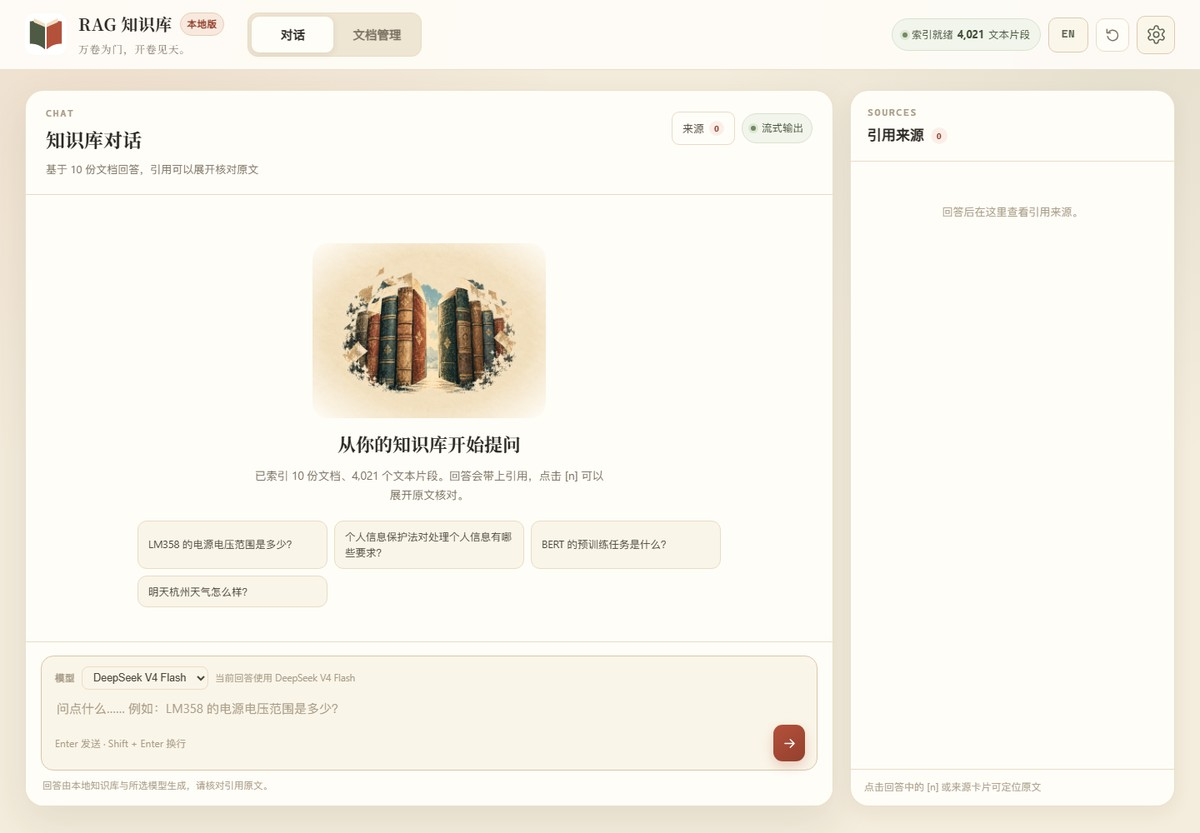
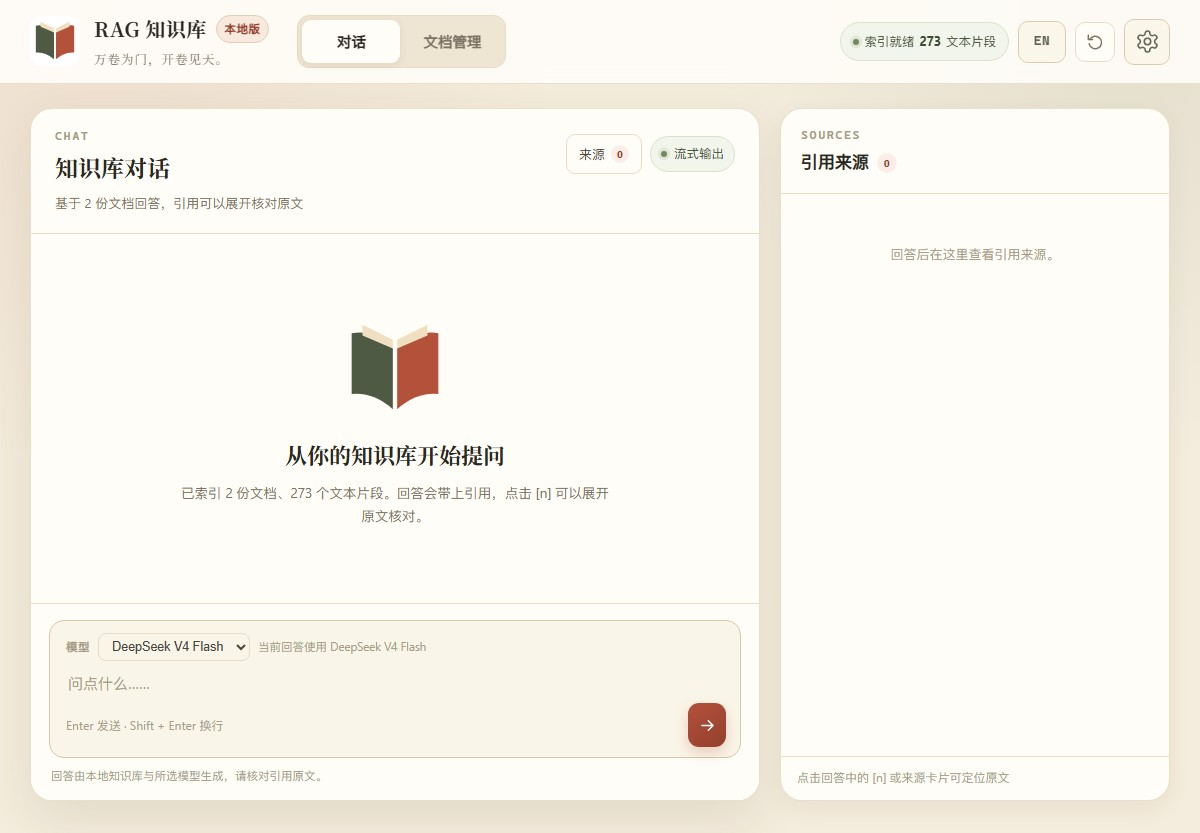
docs: 更新首次引导截图与 V1-020 记录

Changed region(s): [[0.0, 0.0, 1.0, 0.9676], [0.1542, 0.2809, 0.555, 0.6867], [0.74, 0.2497, 0.8942, 0.3121]]

diff --git a/docs/V1问题与优化收集.md b/docs/V1问题与优化收集.md
@@ -75,6 +75,7 @@
 | V1-017 | 分块与 chunk 上下文偏弱 | 优化 | P2 | V2候选 |
 | V1-018 | 大规模索引与向量库演进未规划 | 架构 / 性能 | P2 | V2候选 |
 | V1-019 | 评估集只覆盖 20 题检索 | 工程规范 | P1 | V2候选 |
+| V1-020 | 首次引导的 Provider / Key 交互反直觉 | 体验 | P2 | 已修复 |
 
 ---
 
@@ -326,6 +327,19 @@
 - 期望：扩充到 50+ golden set，覆盖多格式、精确型号、表格、图片、多轮、库外问题；记录 recall@k、MRR、引用支持度、拒答准确率、p50/p95 延迟、单次成本；本地脚本 + pytest 回归门禁；可选 RAGAS/DeepEval。
 - 影响：没有度量就无法判断 hybrid/rerank/图片改造的收益。
 - 备注：建议作为 V2 第一项，先于 V1-016/V1-017；在现有 `scripts/eval_retrieval.py` 上扩展。
+
+### V1-020 首次引导的 Provider / Key 交互反直觉
+
+- 类型：体验
+- 优先级：P2
+- 模块：UI / 设置
+- 状态：已修复
+- 首次记录：2026-10-29
+- 场景：第一次启动，需要同时配置问答模型 Key 和嵌入模型 Key。
+- 现象：原来是一个 Provider 下拉 + 一个 Key 输入，保存后自动切到另一个 Provider；用户不清楚当前在配哪个 Key，也不知道两个 Key 分别对应什么。
+- 期望：问答模型 Key、嵌入模型 Key 分成两段，各自有 Provider 下拉和 Key 输入，一个保存按钮；Provider 按当前能力限制。
+- 影响：首次配置容易困惑，可能反复切换 Provider 或漏配。
+- 备注：2026-10-29 已改为两段式：问答模型 Key（Provider 当前只有 DeepSeek）、嵌入模型 Key（Provider 当前只有 阿里云百炼），共享「保存并继续」；引导从 4 步简化为 2 步。同时移除首次引导背景图、改用品牌 logo，并同步 README 截图。
 
 ---
 

diff --git a/README.md b/README.md
@@ -23,7 +23,7 @@
 |---|---|
 | ![知识库对话](docs/assets/ui-chat.jpg) | ![首次引导](docs/assets/ui-setup.jpg) |
 
-> 截图使用本地空会话界面，不包含真实文档内容或 API Key。
+> 截图使用本地空会话界面；Key 只显示掩码，不包含真实文档内容或完整 API Key。首次引导按「问答模型 / 嵌入模型」两段配置。
 
 ---
 
@@ -53,7 +53,7 @@
 | 防幻觉兜底 | 没有可用上下文或没有有效引用时，返回“知识库中没有相关信息。”；问候/闲聊则暖心回应且不标引用 |
 | 多轮追问 | 内存保留最近 5 轮，追问先改写为独立查询再检索 |
 | 文档管理 | 上传 job、进度轮询、软删除、恢复、彻底删除、全量重建 |
-| Key 设置 | 首次引导 / 设置页保存、测试连接、清除；DPAPI 本机加密 |
+| Key 设置 | 首次引导分「问答模型 / 嵌入模型」两段配置 Provider + Key；设置页保存、测试、清除；DPAPI 本机加密 |
 | 中英界面 | 一键切换中文 / English；模型名和原文保持原语言 |
 
 ---
@@ -113,7 +113,7 @@ Copy-Item .env.example .env
 .venv\Scripts\python.exe -m app.main
 ```
 
-打开 <http://127.0.0.1:8000/>，按首次引导填入两个 Key 即可。
+打开 <http://127.0.0.1:8000/>，按首次引导分别配置「问答模型 Key」和「嵌入模型 Key」即可。Provider 下拉当前固定为 DeepSeek / 阿里云百炼。
 
 > 不想把 Key 存在本机？也可以改用系统环境变量 `DEEPSEEK_API_KEY` / `DASHSCOPE_API_KEY`，环境变量优先。  
 > 完整配置、CLI 建库、故障排查见 [开发文档](PROJECT.md)。

diff --git a/PROJECT.md b/PROJECT.md
@@ -35,7 +35,7 @@
 | 兜底防幻觉 | ✅ 已实现 | 无有效引用时返回“知识库中没有相关信息。”；问候/闲聊暖心回应且不标引用 |
 | 文档管理 API | ✅ 已实现 | 列表 / 上传 job / 软删除 / 恢复 / 彻底删除 / 重建 |
 | Web API | ✅ 已实现 | FastAPI + SSE；`/docs` 可调通已实现接口 |
-| Web 页面 | ✅ 已实现 | 聊天 / 文档 / 设置三页接真实 API；M3 验收通过 |
+| Web 页面 | ✅ 已实现 | 聊天 / 文档 / 设置 / 首次引导接真实 API；M3 验收通过 |
 | 多轮对话 | ✅ 已实现 | `session_id` + 最近 5 轮内存历史 + 追问查询改写 |
 | 一键启动脚本 | ✅ 已实现 | `start.cmd` / `start.ps1` / `start.sh` |
 

diff --git a/docs/README.md b/docs/README.md
@@ -2,7 +2,7 @@
 
 > 本目录有 8 份文档，但每类事实只有一个**唯一来源**。其他文档只做摘要或链接，不复制正文，避免同一事实多处维护后漂移。
 >
-> 最后核对：2026-10-25（以当天提交为准；不在文档地图里追哈希，避免每次提交都改地图）
+> 最后核对：2026-10-29（以当天提交为准；不在文档地图里追哈希，避免每次提交都改地图）
 
 ## 一、按问题找文档
 
